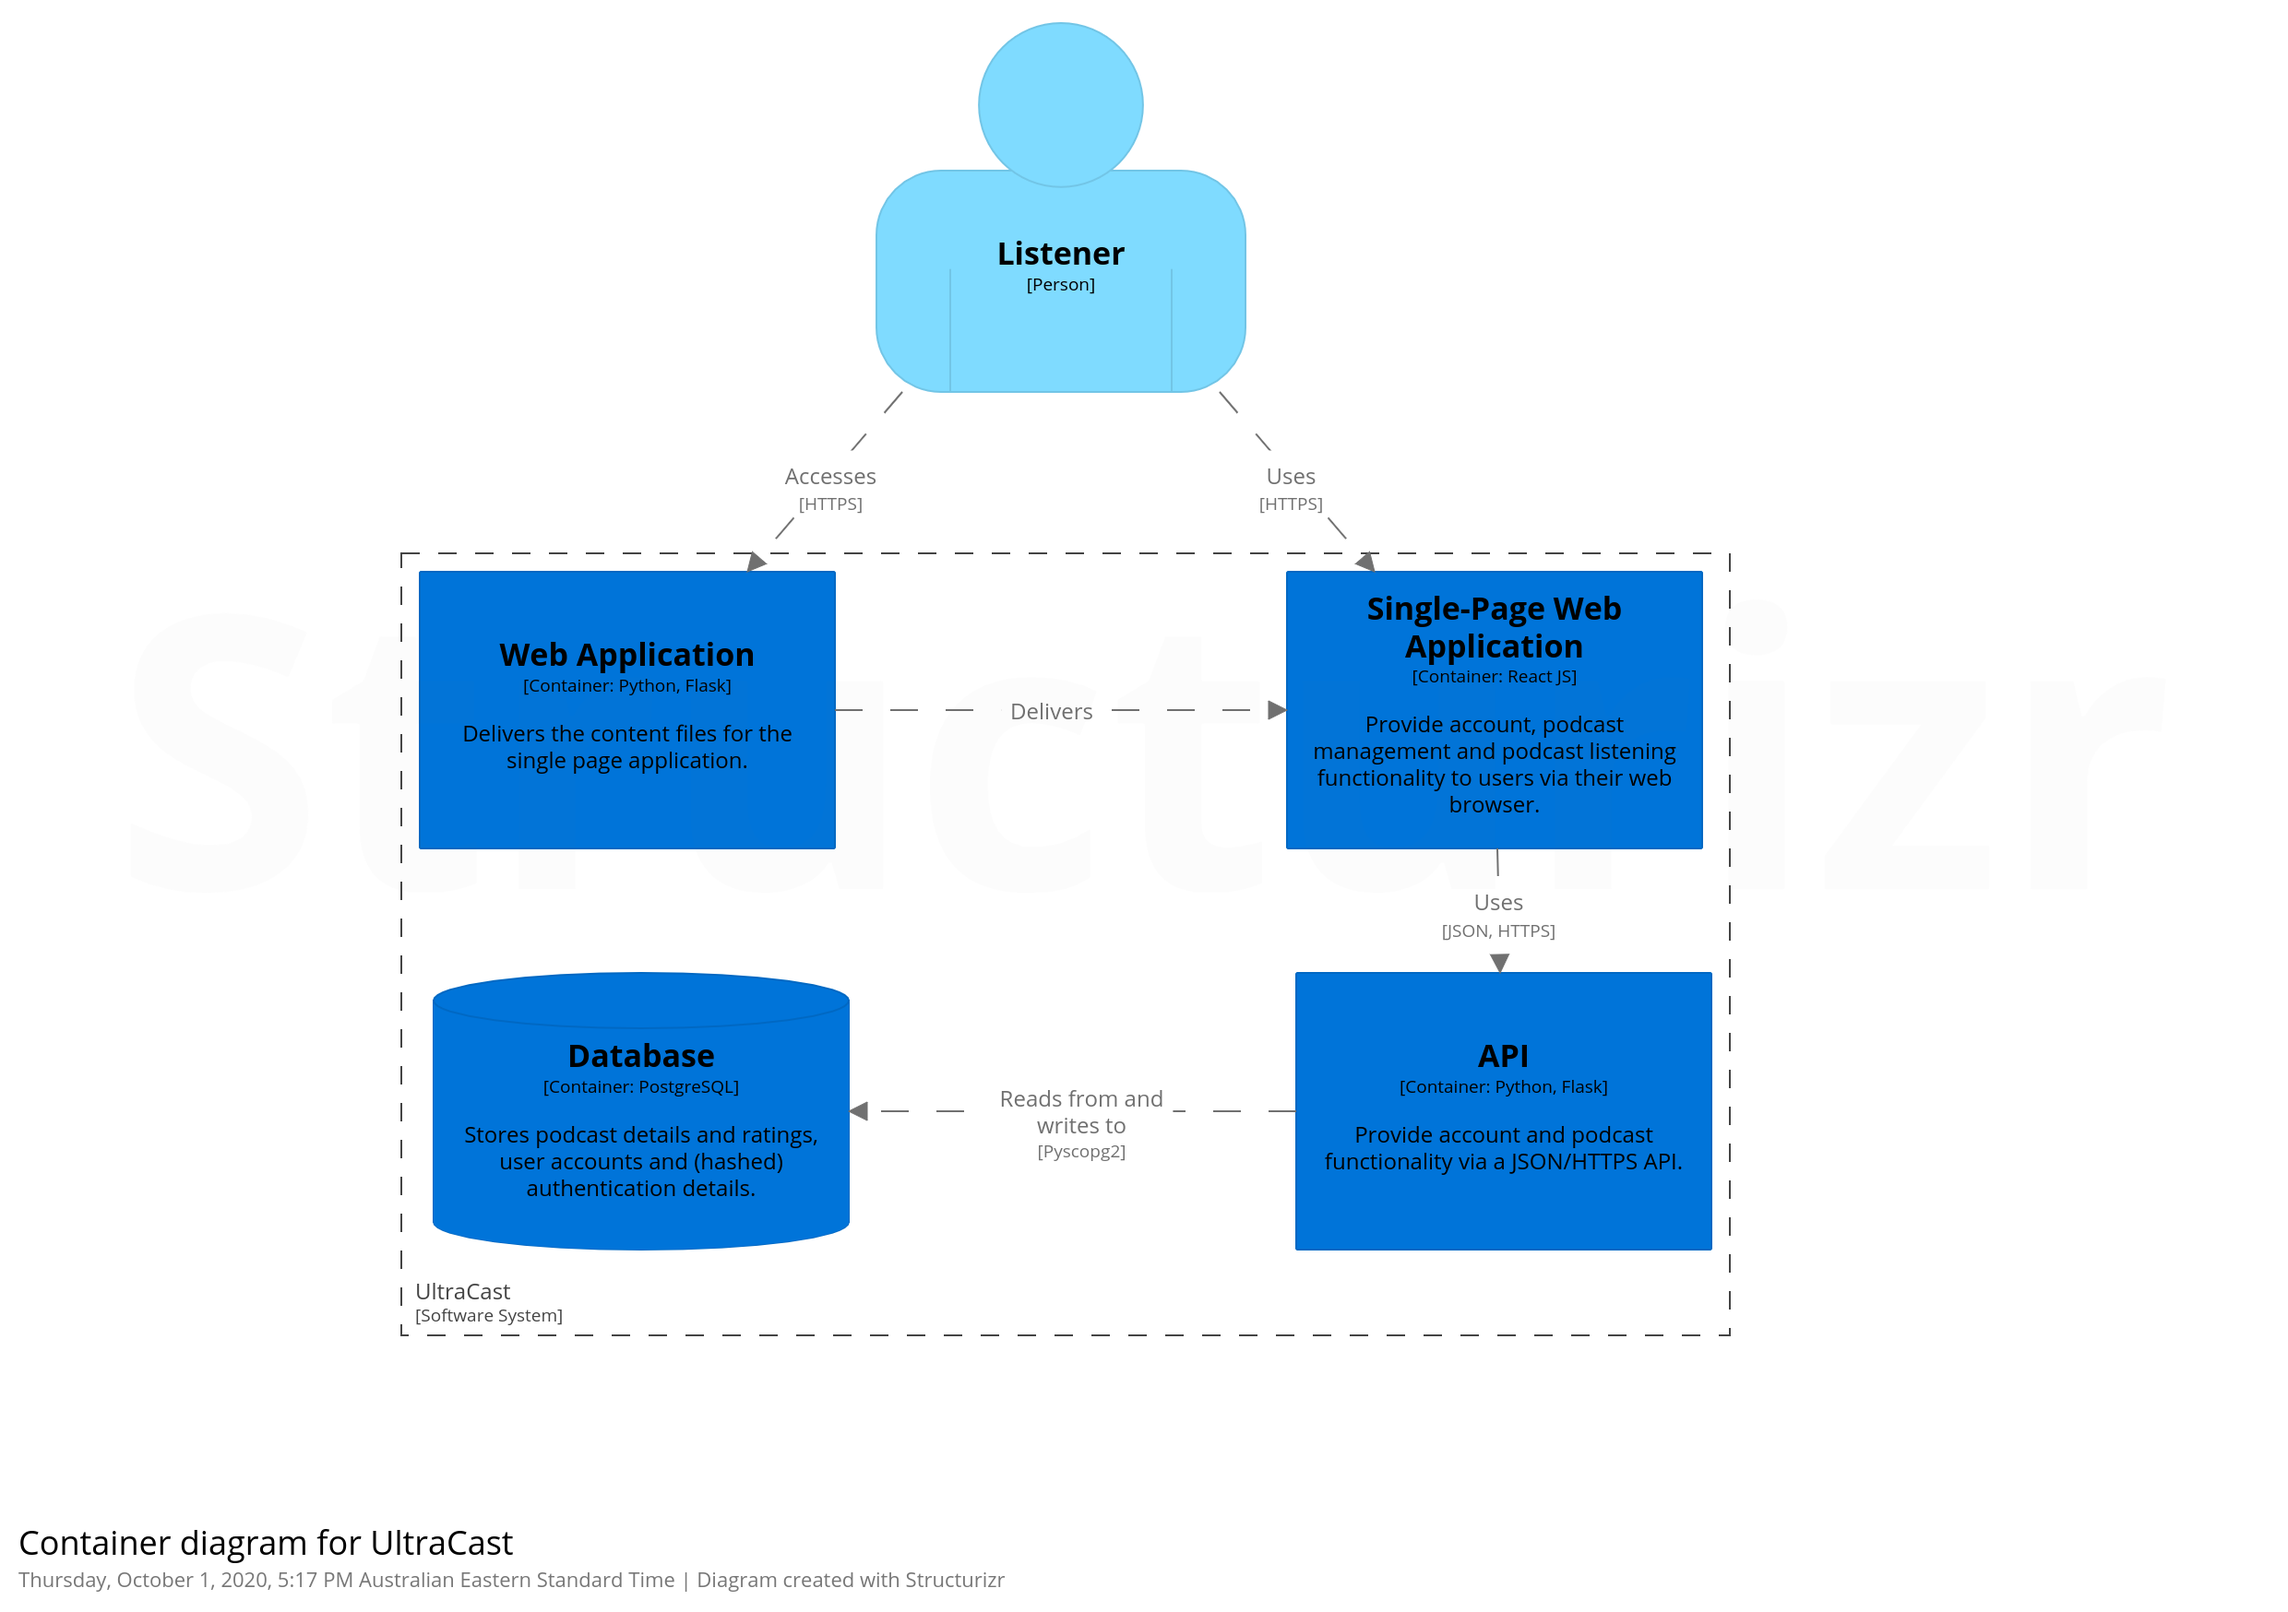
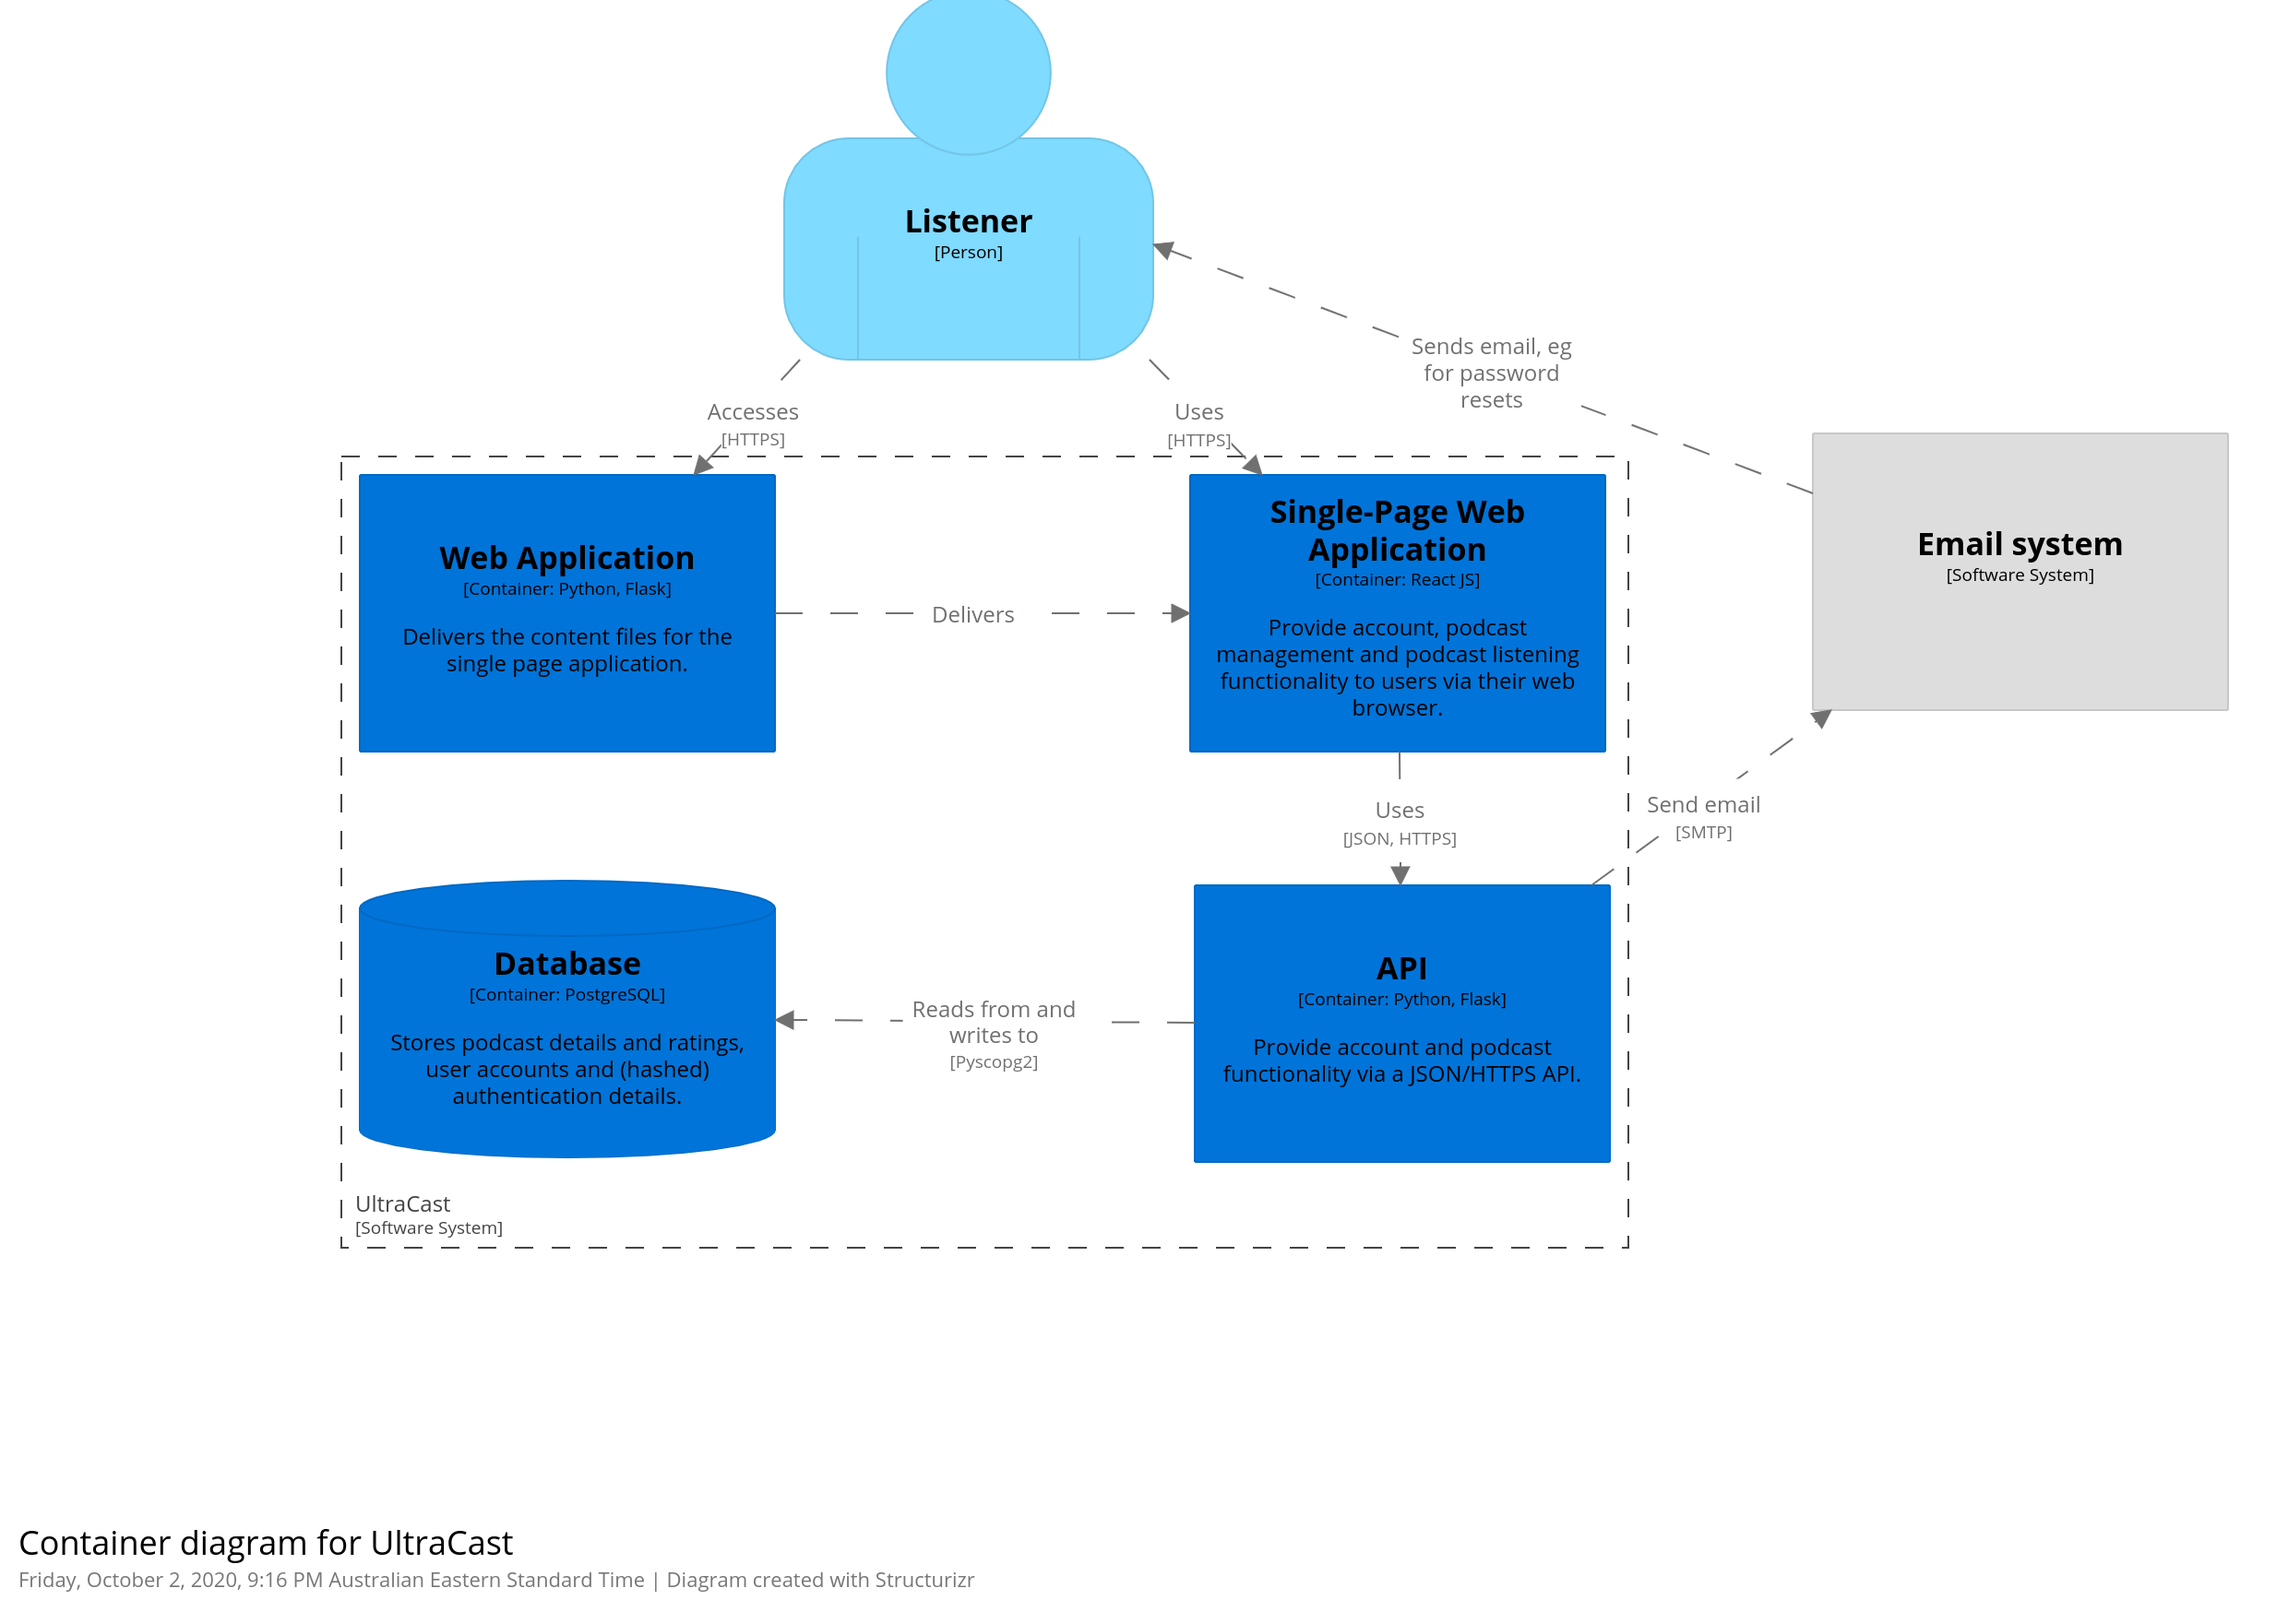
proposal: change arch diagram

diff --git a/proposal/proposal.md b/proposal/proposal.md
@@ -102,6 +102,8 @@ CHB-35: As a listener, I want to be able to log out so that other computer users
 **Podcast download:**  
 CHB-20: As a listener, I want to be able to download podcasts for offline listening.  
 
+#### Allocation
+
 ### Project objectives
 > "Clearly communicates how all project objectives are satisfied by user stories that are defined." 
 
@@ -128,28 +130,36 @@ Given our analysis of existing services above, we highlight the following featur
 ![Software Architecture Diagram](images/arch.png)
 
 **Presentation layer:**   
-The frontend code which creates the user interface in the user's web browser, by running in the end-user's browser. This code interacts with the backend APIs by sending requests such as search queries, requests for a particular podcast's details, and music files for a particular podcast episode. The frontend code then interprets the data in these responses to decide on interface changes and display messages, formats the data to display within the interface, and plays the music if relevant. Our intention is for this to be a single-page web application. The web application is delivered by a Python/Flask server backend.
+The frontend code which creates the user interface in the user's web browser, by running in the end-user's browser. This code interacts with the backend APIs by sending requests such as search queries and requests for a particular podcast's details. The frontend code then interprets the data in these responses to decide on interface changes and display messages, formats the data to display within the interface, and plays the music if relevant. 
+Our intention is for this to be a single-page web application. The web application is delivered by a Python/Flask server backend.
 - Technologies: HTML, CSS, React JS.
 
 **Business layer:**  
-The business layer code runs on the server and implements a RESTful API. It receives requests from the frontend, communicates with the data layer to store data and retrieve results according to database rules, and returns results to the frontend in (probably) JSON format. It also performs data layer and server maintenance independent of API requests.
+The business layer code runs on the server and implements a RESTful API. It receives requests from the frontend, communicates with the data layer to store data and retrieve results according to database rules, and returns results to the frontend in (probably) JSON format. In many cases, the business layer will return the RSS feed link for a podcast, and the presentation layer code will interpret this rss feed to find episode names and music files.
+It also performs data layer and server maintenance independent of API requests.
 - Technologies: Python with Flask, Psycopg
 
-Partial Overview of API structure, first sprint:
-| HTTP Method |  Endpoint | Request body | Action |
-|-------------|-----------|--------------|--------|
-| GET         | `/podcasts/<podcastID>/details` | | Returns podcast details
-| GET         | `/podcasts/<podcastID>/episodes?n=<num>&q=<query>` | | Return the episode IDs, names and release dates (etc. ??) of the `num` most recent episodes of the podcast, or all episodes if n is not set. If q is set, returns only those that match the search query.
-| GET         | `/episodes/<episodeID>/details` | | Returns episode details - name, release date, description, length. Should also return the user's timepoint in the episode - by indexing their session cookie into database or ?
-| GET         | `/episodes/<episodeID>/sound` | | Returns sound file for an episode. Or maybe do it as the details endpoint returns a URL to the file?
-| GET         | `/podcasts?q=<query>&count=<startNum>` or `/search`? | | Returns one page of podcast search results, starting at result number startNum (default 0) ? |
-| GET         | `/episodes?q=<query>&count=<startNum>` or `/search`? | | Returns one page of episode search results, starting at result number startNum (default 0) ? |
-| ...         |          
-| POST        | `/users` | | Make an account
-| DELETE      | `/users/<userID>` OR `/users/self` | | Delete account               |         |
-| PUT        | `/users/self/password` | `{"oldpassword": <oldpassword>, "newpassword": <newpassword>}`| maybe not?
-| PUT/POST    | `/users/self/email` | `{"password": <password>, "newemail": <email>}`| maybe not?
-| POST        | `/users/passwordreset` | `{"email": <emailaddress>}` | maybe not? (email address is in request body bc apparently security issues with being in query and logs)
+Overview of API plan:
+| HTTP Method |  Endpoint                                                    | Request body | Action                  |
+|-------------|--------------------------------------------------------------|--------------|-------------------------|
+| GET         | `/podcasts/<podcastID>`                                      |              | Returns podcast details - RSS feed URL, rating |
+| GET         | `/podcasts?q=<query>&offset=<startNum>&limit=<limitNum>`     |              | Search. Request `limitNum` results starting at result number `startNum` |
+| POST        | `/podcasts`                                                  | `{"rss": <rsslink>}` | Add a podcast   |
+| GET         | `/users/self/podcasts/<podcastID>/episodes/<episodeID>/time` |              | Return time progress in episode |
+| PUT         | `/users/self/podcasts/<podcastID>/episodes/<episodeID>/time` |              | Update time progress in episode, and also listening history |
+| PUT         | `/users/self/podcasts/<podcastID>/rating`                    | `{"rating": <rating>}`              | Update rating for podcast |
+| GET         | `/users/self/podcasts/<podcastID>`                           |              | Get user's podcast rating, whether subscribed |
+| POST        | `/users`                                                     | `{"email": <email>, "username": <username>, "password": <password>}`              | Create account |
+| DELETE      | `/users/self`                                                |              | Delete account |
+| PUT         | `/users/self/password`                                       | `{"oldpassword": <oldpassword>, "newpassword": <newpassword>}`                                                                             | Change password  |
+| PUT         | `/users/self/email`                                          | `{"password": <password>, "newemail": <email>}`                                                                                           | Change email address |
+| POST        | `/users/passwordreset`                                       | `{"email": <emailaddress>}`                                                                                           | Request password reset |
+| POST        | `/users/self/subscriptions`                                  | `{"id": <podcastID>}`           | Subscribe to a podcast |
+| DELETE      | `/users/self/subscriptions/<podcastID>`                      |              | Unsubscribe from a podcast |
+| GET         | `/users/self/subscriptions`                                  |              | Get list of subscribed podcasts - IDs and maybe the actual podcast info as well, to save an RTT from follow up requests? |
+| GET         | `/users/self/rejectedrecommendations`                        |              | Get list of rejected podcast recommendations |
+| POST        | `/users/self/rejectedrecommendations`                        | `{"id": <podcastID>}` | Add rejected recommendation |
+| GET         | `/users/self/history?offset=<startNum>&limit=<limitNum>&podcast=<podcastID>`     |              | Get listening history. With podcast set, returns listening history for a particular podcast. |
 
 **Data layer:**  
 The data layer contains the database and its communication services. It stores the data and provides services for storing and retrieving data. It sits on a server, in our case likely the same server as the business layer.
